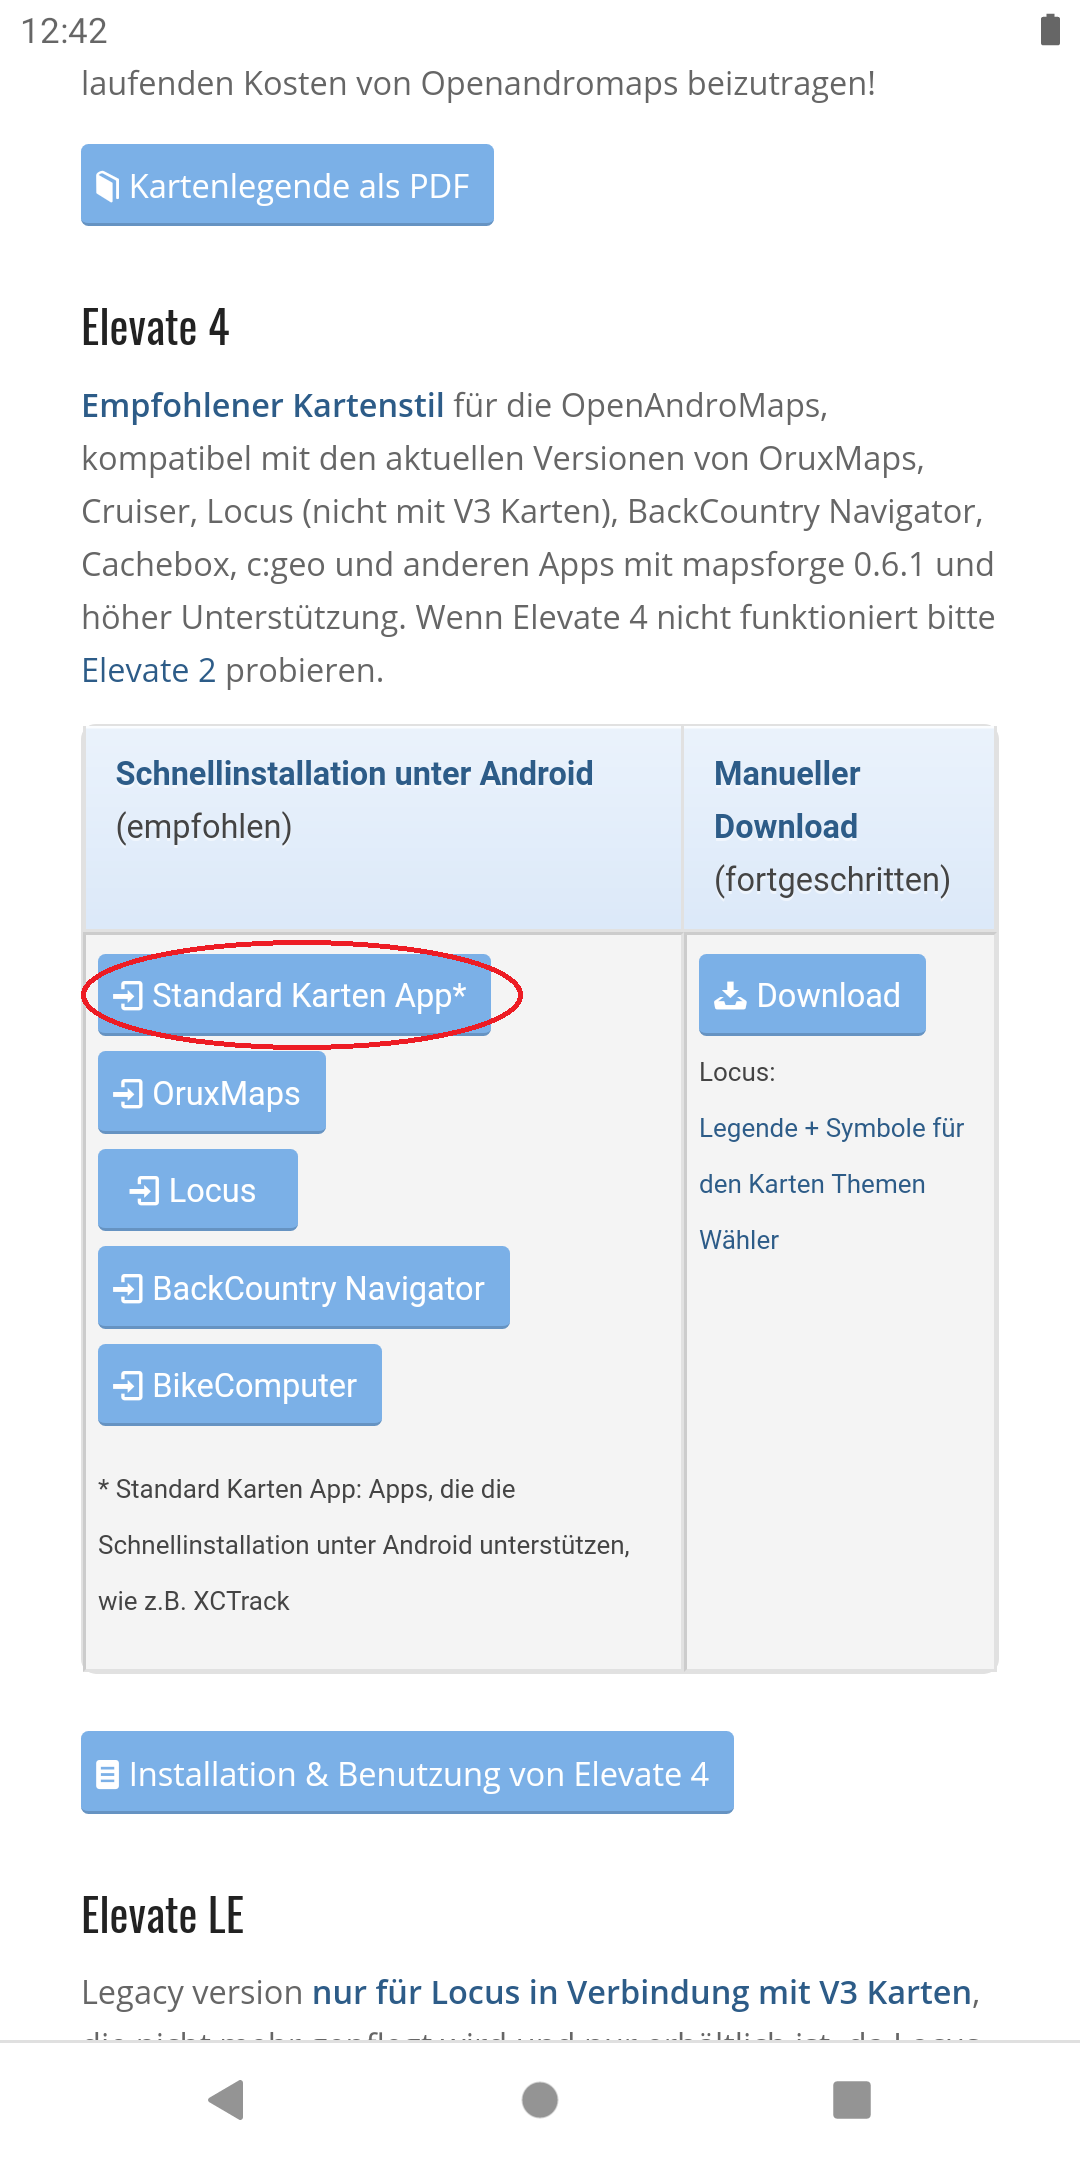
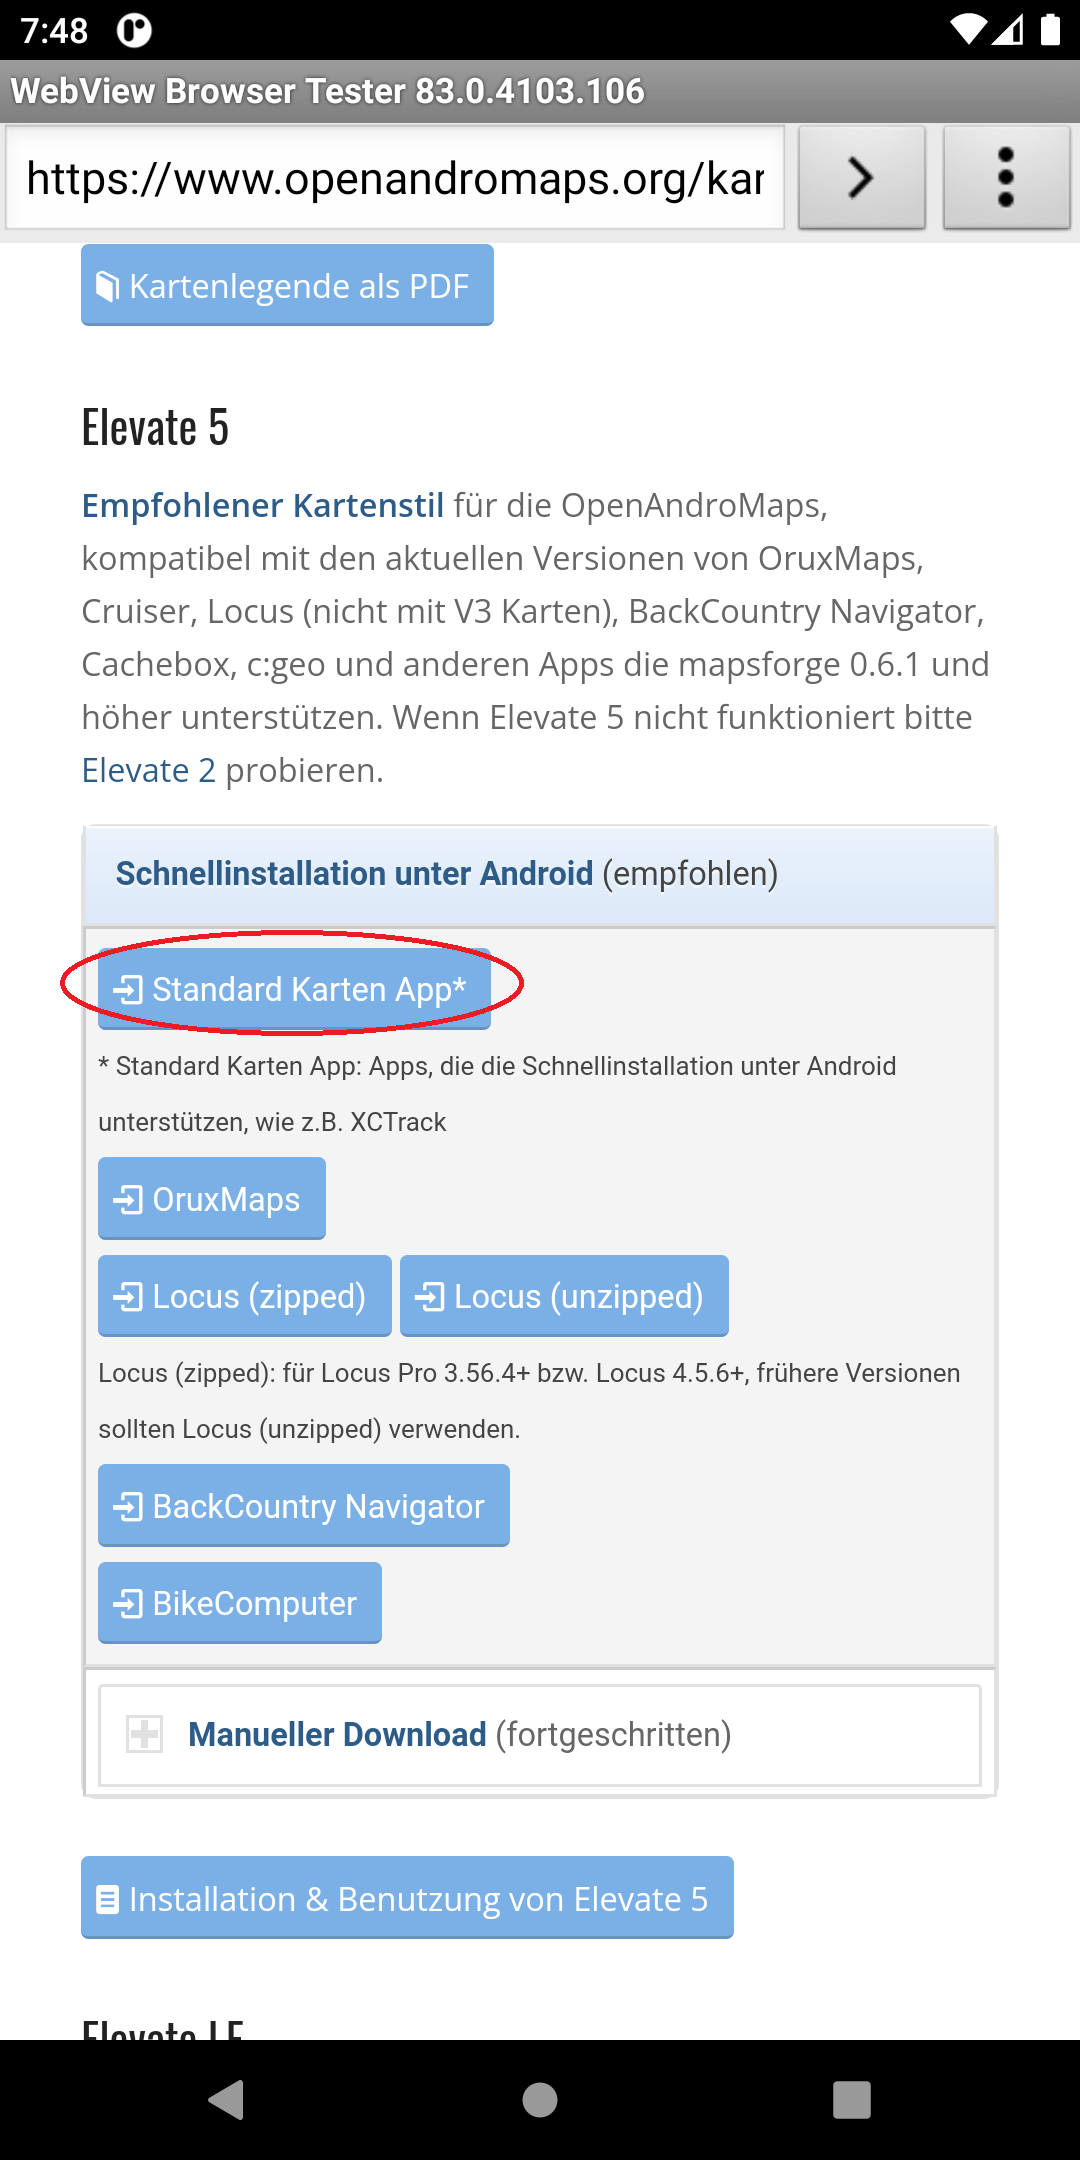
docs for elevate 5 theme

diff --git a/docs/Features/MainMapFeatures/MapsforgeThemes/mapsforgethemes.md b/docs/Features/MainMapFeatures/MapsforgeThemes/mapsforgethemes.md
@@ -11,7 +11,7 @@ put it into the ./MGMapViewer/themes/ directory (see also [file system structure
    
 The easier way is to open via <img src="../../../icons/group_task.svg" width="24"/> + <img src="../../../icons/download.svg" width="24"/> and
    <span style="color:gray">*Download Elevate Theme*</span>
-   the theme download webpage of openandromaps. Scroll to the Elevate 4 section and select the entry
+   the theme download webpage of openandromaps. Scroll to the Elevate 5 section and select the entry
    <span style="color:gray">*Standard Karten App*</span> entry.
 
    <img src="./download3.png" width="200" />&nbsp;
